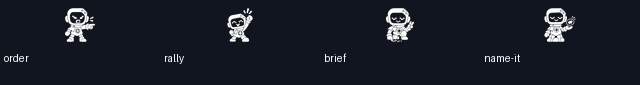
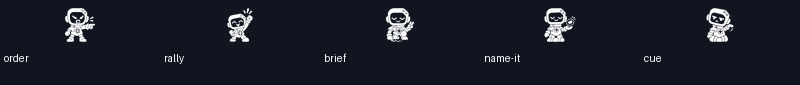
art: draw Cue Call with chopping hand and motion mark

diff --git a/art/icons/calls/README.md b/art/icons/calls/README.md
@@ -6,3 +6,4 @@ Pure white ink on transparency; image_gen drawings, technically separated and re
 - `rally.png`: Rally. Wick rallying the squad: one fist raised high above his head, body leaning forward, three short sound lines fanning up from him. A cheer that lifts people.
 - `brief.png`: Brief. Wick giving a quick briefing: crouched on one knee, one hand drawing a short plan on the ground with a finger (two small strokes and a dot on the ground line), the other hand held up with two fingers raised. Calm and quick.
 - `name-it.png`: Name It. Wick naming a fear out loud so it loses its hold: standing firm, one open hand held out palm-up as if presenting something, and in front of that hand a small jagged shape with a simple ring drawn around it, as if circled and labelled. Steady, reassuring.
+- `cue.png`: Cue. Wick giving a cue: one arm raised with the hand about to drop in a sharp "now!" chop, a single short curved motion line under the hand, his head turned over his shoulder toward someone behind him.

diff --git a/art/_archive/deliveries/2026-11-12/README.md b/art/_archive/deliveries/2026-11-12/README.md
@@ -2,4 +2,4 @@
 
 Review candidates; production_approved:false. Source branch: claude/charming-gauss-hbq4n0, dd35e4b8. Destination: art/briefs-complete. The brief heading says13 Wick icons, but its table and ART-REQUESTS enumerate11. This run covers those11 plus the6-feeling/4-module test set; remaining Outburst art awaits Leon’s verdict. Optional maps require current tile guides. No planned equipment or campaign maps are drawn.
 
-Delivered: 6/21. See progress.json, manifest.json, queue.json, prompts/, sources/, masters/v1/ and reviews/.
+Delivered: 7/21. See progress.json, manifest.json, queue.json, prompts/, sources/, masters/v1/ and reviews/.
